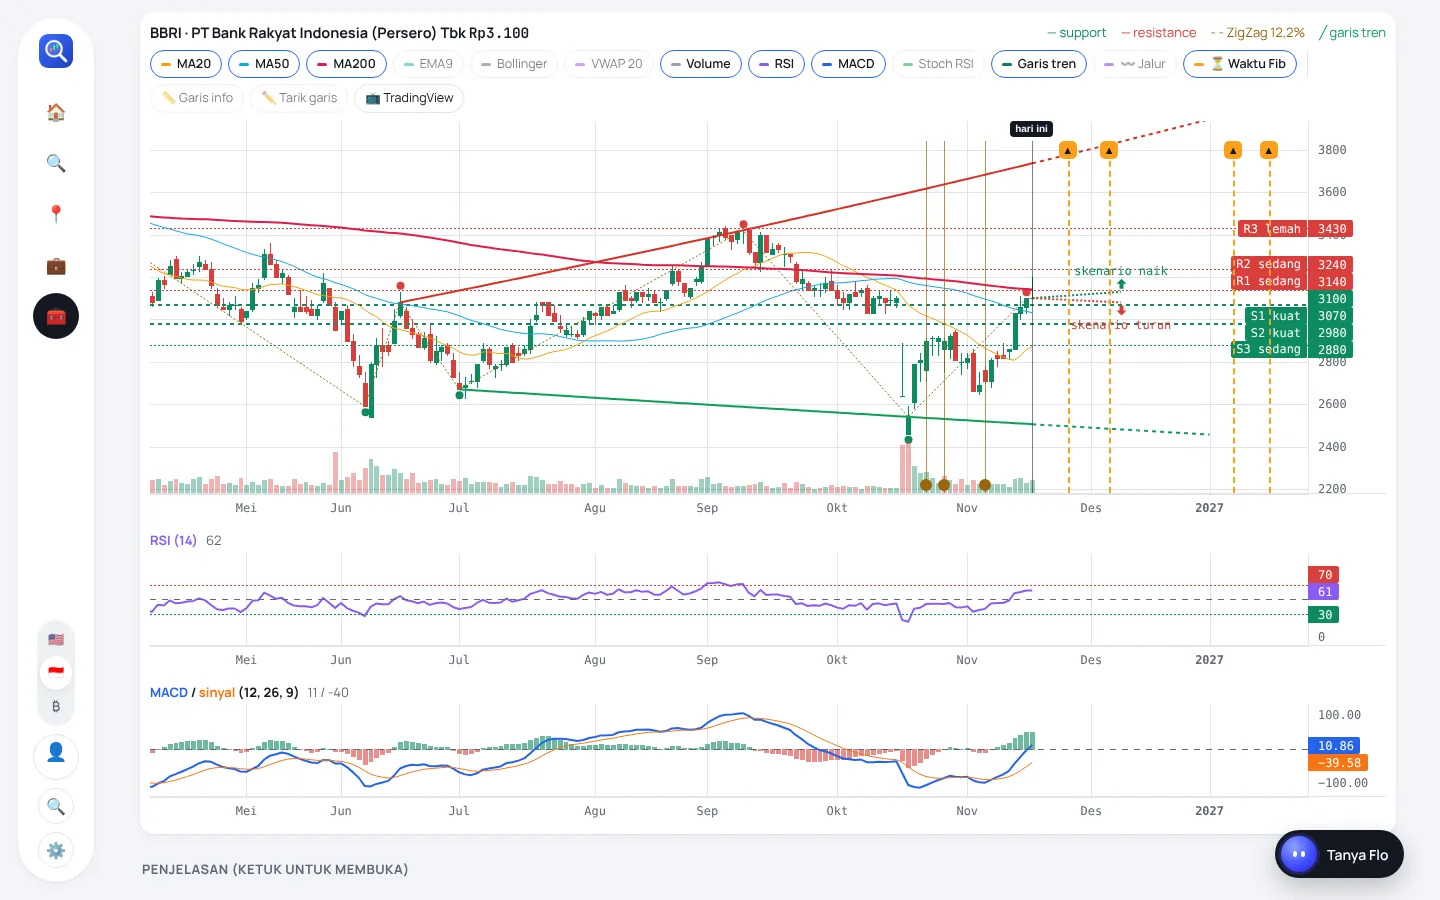
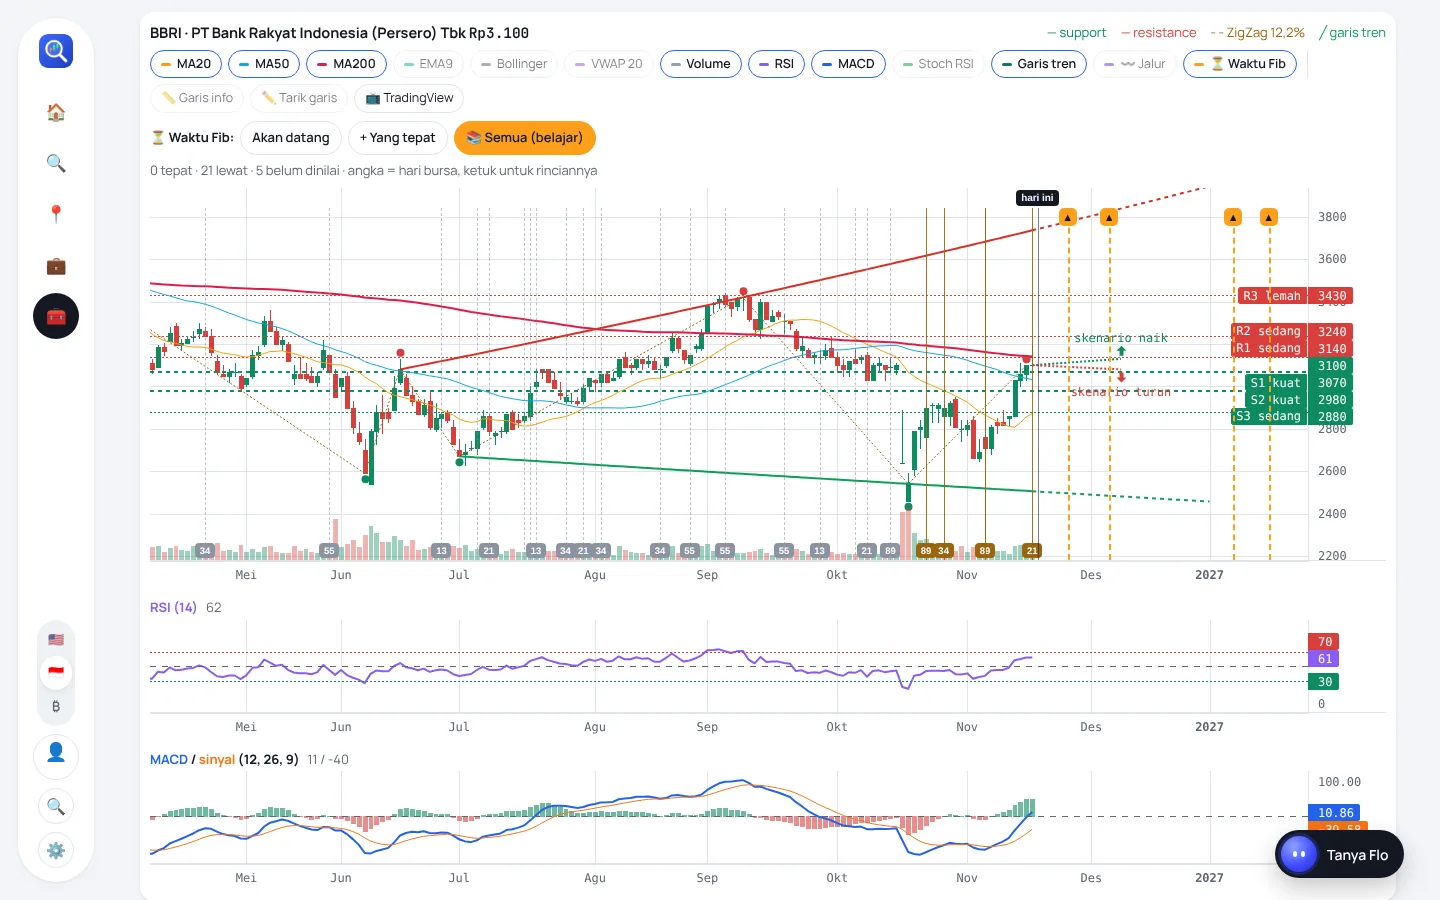
Mode belajar garis Fibonacci: semua tanggal yang sudah lewat di grafik
Tombol Waktu Fib punya pilihan Akan datang, + Yang tepat, dan Semua (belajar). Mode belajar menampilkan semua tanggal lalu (tepat, lewat, belum dinilai) dengan angka hari bursa; ketuk angka untuk melihat puncak/lembah asal dan hasilnya. IHSG dan indeks lain kini juga punya penilaian tanggal lalu (dihitung di browser dengan aturan yang sama seperti cycles.py).

Claude-Session: https://claude.ai/code/session_0176tunuPXuM9NMJ1o5MofW8

diff --git a/index.html b/index.html
@@ -309,6 +309,12 @@ tbody tr:last-child td{border-bottom:none}
 .fmini{display:inline-block;margin:4px 6px 0 0;vertical-align:top}.fmini>summary{list-style:none;cursor:pointer;display:inline-flex}.fmini>summary::-webkit-details-marker{display:none}
 .fmini>summary::after{content:attr(data-l) " ▾"}.fmini[open]{display:block;width:100%}.fmini[open]>summary::after{content:attr(data-l) " ▴"}
 .fmini>.fold-c{margin-top:8px}
+.fibm{display:flex;flex-wrap:wrap;gap:6px;align-items:center;margin:2px 0 8px;font-size:13px}.fibm button{border:1px solid var(--line);background:var(--surface);border-radius:999px;padding:6px 11px;font:inherit;font-weight:600;cursor:pointer;color:var(--fg)}
+.fibm button[aria-pressed=true]{background:#ff9f1c;border-color:#ff9f1c;color:#131722}.fibm .note{width:100%;margin:0}
+.fib-n{position:absolute;pointer-events:auto;min-width:20px;height:15px;padding:0 3px;border:none;border-radius:4px;color:#fff;font:700 9.5px/15px sans-serif;text-align:center;cursor:pointer}
+.fib-tag{position:absolute;top:2px;color:#fff;font:700 10px/16px sans-serif;padding:0 5px;border-radius:4px;white-space:nowrap}
+.fib-info{position:absolute;left:10px;bottom:46px;max-width:min(290px,80%);background:var(--surface);color:var(--fg);border:2px solid;border-radius:12px;padding:9px 30px 9px 12px;font-size:13px;line-height:1.45;box-shadow:var(--shadow);pointer-events:auto}
+.fib-x{position:absolute;right:6px;top:4px;border:none;background:none;font-size:14px;cursor:pointer;color:var(--muted)}
 .mcard:has(>.fmini){flex-direction:row;flex-wrap:wrap;align-items:flex-start}.mcard:has(>.fmini)>*{width:100%}.mcard:has(>.fmini)>.fmini:not([open]){width:auto;margin:0}
 .srbox:not(.sr-open) .sv>:not(.svh),.srbox:not(.sr-open) .sr-in>:not(.sv):not(.svh){display:none}.srbox:not(.sr-open) .sv+.sv{margin-top:6px}
 .sr-more{border:none;background:none;padding:0;cursor:pointer;margin-top:6px;align-self:flex-start}.srbox.sr-open .sr-more::after{content:"Ringkas ▴"}.sr-more::after{content:"Selengkapnya ▾"}
@@ -1555,7 +1561,8 @@ function drawChart(el, dates, vals, a, rawan, future, idr, opt){
   ch.timeScale().setVisibleLogicalRange({from:Math.max(0,B.length-150),to:B.length+Math.min(fut.length,Math.max(45,(x.path&&x.path.vis)||0))});
   watchSize(ch,el,pxObs);
   infoLines(ch,s,T.concat(fut),el,opt.dkey,idr);
-  if(on.has("fib")&&opt.tz) fibDraw(ch,el,opt.tz,good,warn);
+  if(opt.fibBox) opt.fibBox.innerHTML="";
+  if(on.has("fib")&&opt.tz) fibDraw(ch,el,opt.tz,good,warn,opt.fibBox,isIdxU(opt));
   // panel bawah
   const P=opt.panels; const all=[ch];
   if(P){ P.innerHTML="";
@@ -1577,25 +1584,58 @@ function drawChart(el, dates, vals, a, rawan, future, idr, opt){
   if(opt.read){ if(!x.macd&&on.has("macd")) x.macd=macdA(C); const lines=indRead(on,B,C,hasV,x);
     opt.read.innerHTML=lines.length?`<div class="dl" style="font-size:14px;gap:6px">${lines.map(l=>`<div><span>${l}</span></div>`).join("")}</div><p class="note">Dibaca otomatis dari harga terakhir${candle?"":" (grafik garis: data candle saham ini belum tersedia)"}. Semua ini hanya alat bantu; keputusan beli tetap dari sinyal metode dan area support.</p>`:`<p class="note">Pilih indikator di atas grafik.</p>`; }
 }
-// garis tanggal Fibonacci: yang akan datang (oranye putus-putus), yang lalu dan tepat (hijau), yang belum bisa dinilai (kuning)
-function fibDraw(ch,el,tz,good,warn){
-  const ORG="#ff9f1c", today=(()=>{ const n=new Date(); return new Date(n-n.getTimezoneOffset()*6e4).toISOString().slice(0,10); })();
-  const fut=(tz.tz||[]).filter(x=>x[0]>=today).slice(0,6), past=(tz.tzp||[]).filter(x=>x[0]<today&&x[6]!==0);
+// garis tanggal Fibonacci. Tiga tampilan: hanya yang akan datang, + yang tepat (bawaan), atau semua tanggal lalu (mode belajar).
+// tz.tz = tanggal mendatang [tgl, f, tgl asal, H/L, harga asal]; tz.tzp = tanggal lalu [tgl, f, tgl asal, H/L, harga asal, harga, hasil 1/0/null, tgl titik balik, jenis, harga, tebakan arah]
+const FIB_N=[13,21,34,55,89,144];
+function pastTz(a,dates,vals){ // hitung tanggal Fibonacci yang sudah lewat (untuk indeks; saham sudah dihitung di server), aturan sama dengan cycles.py
+  const D=[], V=[]; (dates||[]).forEach((d,i)=>{ if(vals&&vals[i]!=null){ D.push(d); V.push(vals[i]); } }); const n=D.length; if(n<30) return [];
+  const at=d=>{ let lo=0,hi=n-1; while(lo<hi){ const m=(lo+hi)>>1; if(D[m]<d) lo=m+1; else hi=m; } return D[lo]===d?lo:-1; };
+  const piv=(a.piv||[]).map(p=>[at(p[0]),p[1],p[2]]).filter(p=>p[0]>=0), turns=piv.slice();
+  if(a.tent){ const ti=at(a.tent[0]); if(ti>=0&&n-1-ti>=5) turns.push([ti,a.tent[1],a.tent[2]]); }
+  const lastI=turns.length?Math.max(...turns.map(x=>x[0])):0, dir=k=>k>=10?(V[k]>V[k-10]?"H":"L"):null, out=[];
+  piv.forEach(([i,v,ty])=>{ if(i<n-260) return; FIB_N.forEach(f=>{ const k=i+f; if(k>n-1) return;
+    const h=turns.find(x=>x[0]!==i&&Math.abs(x[0]-k)<=2), res=h?1:(k>lastI-2||k>n-3?null:0);
+    out.push([D[k],f,D[i],ty,v,V[k],res,h?D[h[0]]:null,h?h[2]:null,h?h[1]:null,dir(k-3)]); }); });
+  return out.sort((x,y)=>x[0]<y[0]?1:-1).slice(0,40); }
+function isIdxU(opt){ return opt.isIdx?null:usd; }
+function fibDraw(ch,el,tz,good,warn,box,U){
+  const ORG="#ff9f1c", GRY="#8a93a3", today=(()=>{ const n=new Date(); return new Date(n-n.getTimezoneOffset()*6e4).toISOString().slice(0,10); })();
+  let mode=store.get(WP+"fibm")||"hit"; if(!["next","hit","all"].includes(mode)) mode="hit";
+  const fut=(tz.tz||[]).filter(x=>x[0]>=today).slice(0,6), allPast=(tz.tzp||[]).filter(x=>x[0]<today);
+  const past=mode==="all"?allPast:mode==="hit"?allPast.filter(x=>x[6]!==0):[];
+  const nT=allPast.filter(x=>x[6]===1).length, nX=allPast.filter(x=>x[6]===0).length, nW=allPast.filter(x=>x[6]==null).length;
+  const fmt=U||(v=>nf(v,v>1000?0:2));
+  if(box){ box.innerHTML=`<div class="fibm" role="group" aria-label="Tampilan tanggal Fibonacci"><b>⏳ Waktu Fib:</b>${[["next","Akan datang"],["hit","+ Yang tepat"],["all","📚 Semua (belajar)"]].map(([k,t])=>`<button type="button" data-fm="${k}" aria-pressed="${mode===k}">${t}</button>`).join("")}
+      <span class="note">${allPast.length?`${nT} tepat · ${nX} lewat · ${nW} belum dinilai${mode==="all"?" · angka = hari bursa, ketuk untuk rinciannya":""}`:"belum ada tanggal yang lewat"}</span></div>`;
+    box.querySelectorAll("[data-fm]").forEach(b=>b.addEventListener("click",()=>{ store.set(WP+"fibm",b.dataset.fm); el.dispatchEvent(new CustomEvent("fibredraw")); })); }
   if(!fut.length&&!past.length) return;
   if(getComputedStyle(el).position==="static") el.style.position="relative";
-  const lay=document.createElement("div"); lay.className="fib-lay"; lay.setAttribute("aria-hidden","true");
+  const lay=document.createElement("div"); lay.className="fib-lay";
   lay.style.cssText="position:absolute;inset:0;pointer-events:none;z-index:3;overflow:hidden"; el.appendChild(lay);
-  const tsc=ch.timeScale();
+  const tsc=ch.timeScale(); let sel=null;
+  const info=x=>{ const [d,f,pd,ty,pv,px,res,hd,hty,hv,gd]=x, jn=t=>t==="H"?"puncak":"lembah";
+    return `<div class="fib-info" style="border-color:${res===1?good:res===0?GRY:warn}"><button type="button" class="fib-x" aria-label="Tutup">✕</button>
+      <b>${res===1?"✅":res===0?"❌":"⏳"} ${tgl(d,1)} · ${res===1?"tepat":res===0?"lewat":"belum bisa dinilai"}</b><br>
+      ${f} hari bursa dari ${jn(ty)} ${tgl(pd,1)} (${fmt(pv)})${px!=null?`<br>Harga di tanggal itu: ${fmt(px)}`:""}
+      ${res===1?`<br>Titik balik: ${jn(hty)} ${fmt(hv)} pada ${tgl(hd,1)}${gd?` · tebakan ${jn(gd)} ${gd===hty?"✓ benar":"✗ salah"}`:""}`:res===0?"<br>Tidak ada puncak/lembah dalam ±2 hari bursa.":"<br>Titik balik baru terlihat beberapa hari kemudian."}</div>`; };
   const place=()=>{ let W=el.clientWidth, H=el.clientHeight; try{ W-=ch.priceScale("right").width(); H-=tsc.height(); }catch(e){ W-=78; H-=28; }
-    const xs=[], ln=(x,css,top=20)=>`<i style="position:absolute;left:${x}px;top:${top}px;height:${H-top}px;${css}"></i>`; let h="";
-    past.forEach(p=>{ const x=tsc.timeToCoordinate(p[0]); if(x==null||x<2||x>W) return; if(xs.some(v=>Math.abs(v-x)<3)) return; xs.push(x);
-      const ok=p[6]===1, c=ok?good:warn; h+=ln(x,`border-left:${ok?2:1}px solid ${c};opacity:${ok?.9:.7}`)+`<b style="position:absolute;left:${x-6}px;top:${H-14}px;width:12px;height:12px;border-radius:50%;background:${c};color:#fff;font:800 9px/12px sans-serif;text-align:center">${ok?"✓":""}</b>`; });
+    const xs=[], ln=(x,css,top=20)=>`<i style="position:absolute;left:${x}px;top:${top}px;height:${H-top}px;${css}"></i>`; let h="", tail="";
+    past.forEach((p,ix)=>{ const x=tsc.timeToCoordinate(p[0]); if(x==null||x<2||x>W) return; const ok=p[6]===1, no=p[6]===0, c=ok?good:no?GRY:warn, hl=sel===ix;
+      h+=ln(x,`border-left:${ok||hl?2:1}px ${no?"dashed":"solid"} ${c};opacity:${hl?1:no?.55:.9}`);
+      if(mode==="all"){ if(xs.some(v=>Math.abs(v-x)<14)&&!hl) return; xs.push(x);
+        h+=`<button type="button" class="fib-n" data-fi="${ix}" style="left:${x-10}px;top:${H-17}px;background:${c}${hl?";outline:2px solid var(--fg)":""}" aria-label="${tgl(p[0],1)}, ${p[1]} hari bursa">${p[1]}</button>`; }
+      else if(ok) h+=`<b style="position:absolute;left:${x-6}px;top:${H-14}px;width:12px;height:12px;border-radius:50%;background:${c};color:#fff;font:800 9px/12px sans-serif;text-align:center">✓</b>`; });
+    if(sel!=null&&past[sel]){ const p=past[sel], x=tsc.timeToCoordinate(p[0]), x0=tsc.timeToCoordinate(p[2]);
+      if(x0!=null&&x0>0&&x0<W){ h+=ln(x0,"border-left:2px solid var(--accent)")+`<b class="fib-tag" style="left:${Math.max(0,x0-30)}px;background:var(--accent)">${p[3]==="H"?"puncak":"lembah"} awal</b>`;
+        if(x!=null){ const a=Math.min(x0,x), w=Math.abs(x-x0); h+=`<i style="position:absolute;left:${a}px;top:44px;width:${w}px;border-top:2px solid var(--accent)"></i><b class="fib-tag" style="left:${a+w/2-30}px;top:34px;background:var(--surface);color:var(--accent);border:1px solid var(--accent)">${p[1]} hari bursa</b>`; } }
+      tail=info(p); }
     const tx=tsc.timeToCoordinate(today);
-    if(tx!=null&&tx>0&&tx<W) h+=ln(tx,"border-left:1.5px solid var(--fg);opacity:.55",20)+`<b style="position:absolute;left:${Math.max(0,tx-22)}px;top:0;background:var(--fg);color:var(--bg);font:700 10px/16px sans-serif;padding:0 5px;border-radius:4px">hari ini</b>`;
+    if(tx!=null&&tx>0&&tx<W) h+=ln(tx,"border-left:1.5px solid var(--fg);opacity:.55",20)+`<b class="fib-tag" style="left:${Math.max(0,tx-22)}px;background:var(--fg);color:var(--bg)">hari ini</b>`;
     const fx=[]; fut.forEach(f=>{ const x=tsc.timeToCoordinate(f[0]); if(x==null||x<2||x>W) return; h+=ln(x,`border-left:2px dashed ${ORG}`);
       if(fx.some(v=>Math.abs(v-x)<18)) return; fx.push(x); const up=tz.tzdir==="H";
       h+=`<b title="${tgl(f[0],1)} · ${f[1]} hari bursa" style="position:absolute;left:${x-9}px;top:20px;width:18px;height:18px;border-radius:5px;background:${ORG};color:#131722;font:800 11px/18px sans-serif;text-align:center">${tz.tzdir?(up?"▲":"▼"):"⏳"}</b>`; });
-    lay.innerHTML=h; };
+    lay.innerHTML=h+tail; };
+  lay.addEventListener("click",ev=>{ if(ev.target.closest(".fib-x")){ sel=null; place(); return; } const b=ev.target.closest("[data-fi]"); if(!b) return; ev.stopPropagation(); const k=+b.dataset.fi; sel=sel===k?null:k; place(); });
   place(); tsc.subscribeVisibleLogicalRangeChange(()=>requestAnimationFrame(place));
   const ro=new ResizeObserver(()=>requestAnimationFrame(place)); ro.observe(el); pxObs.push(ro);
 }
@@ -1636,7 +1676,7 @@ function renderCycles(box){
       <b>${esc(isIdx?sel:sel+(o?" · "+(o.company||""):""))} <span class="num">${isIdx?nf(a.price,isIdx&&a.price>1000?0:2):usd(a.price)}</span></b>
       <span class="legend"><span style="color:var(--good)">— support</span><span style="color:var(--bad)">— resistance</span><span style="color:var(--warn)">- - ZigZag ${nf(a.thr,1)}%</span><span style="color:#0f9d58">╱ garis tren</span>${isIdx?`<span style="color:var(--warn)">▼ tanggal rawan</span>`:""}</span></div>
       <div class="indbar" id="indBar">${(()=>{ const on=indOn(); return IND.map(([k,n,c])=>`<button type="button" data-ind="${k}" aria-pressed="${on.has(k)}"><i style="background:${c}"></i>${n}</button>`).join(""); })()}<span class="il-sep"></span><button type="button" id="ilBtn" aria-pressed="false" title="Ukur perubahan harga antara dua titik">📏 Garis info</button><button type="button" id="tlBtn" aria-pressed="false" title="Tarik garis tren sendiri; diperpanjang ke depan">✏ Tarik garis</button><button type="button" id="ilClr" hidden title="Hapus semua garis yang Anda buat">🗑</button><button type="button" id="tvBtn" title="Grafik TradingView: harga lebih baru (tertunda ±15 menit), alat gambar dan indikator lengkap">📺 TradingView</button></div>
-      <div id="tvBox"></div><p class="note" id="ilHint" style="margin:0 0 6px;min-height:0"></p>
+      <div id="tvBox"></div><div id="fibMode"></div><p class="note" id="ilHint" style="margin:0 0 6px;min-height:0"></p>
       <div id="cyChart" style="width:100%;min-height:400px"></div>
       <div id="cyPanels"></div></div>
     <p class="note" style="margin:14px 2px 0;font-weight:700;letter-spacing:.04em">PENJELASAN (KETUK UNTUK MEMBUKA)</p>
@@ -1679,8 +1719,8 @@ function renderCycles(box){
   faTxt(); fa.addEventListener("click",()=>{ const all=fds().every(d=>d.open); fds().forEach(d=>d.open=!all); const sb=box.querySelector(".srbox"); if(sb){ sb.classList.toggle("sr-open",!all); store.set(WP+"fold.saran",all?"0":"1"); } setTimeout(faTxt,40); });
   box.addEventListener("toggle",ev=>{ if(ev.target.matches&&ev.target.matches("details[data-fold]")){ faTxt(); if(ev.target.open&&b&&ev.target.querySelector("#cyBreadth")&&window.LightweightCharts) drawBreadth($("cyBreadth"),b); } },true);
   $("cyQ").addEventListener("change",ev=>{ const v=ev.target.value.trim().toUpperCase(); if(CYC.stocks[v]){ store.set(WP+"cy.sel",v); renderResults(); } });
-  let bars=null; const draw=()=>drawChart($("cyChart"),SER.dates,vals,a,isIdx?(a.rawan||[]).filter(r=>(r.why||[]).some(w=>{ const k=testKey(w), t=k&&verdOf(sel,k); return !t||t.verdict!=="acak"; })):null,CYC.future,!isIdx&&usd(1).startsWith("Rp"),{bars,panels:$("cyPanels"),read:$("cyRead"),dkey:sel,tz:isIdx?idxTz(a,sel):a});
-  IL_MODE=false;
+  let bars=null; const draw=()=>drawChart($("cyChart"),SER.dates,vals,a,isIdx?(a.rawan||[]).filter(r=>(r.why||[]).some(w=>{ const k=testKey(w), t=k&&verdOf(sel,k); return !t||t.verdict!=="acak"; })):null,CYC.future,!isIdx&&usd(1).startsWith("Rp"),{bars,panels:$("cyPanels"),read:$("cyRead"),dkey:sel,isIdx,fibBox:$("fibMode"),tz:isIdx?Object.assign(idxTz(a,sel),{tzp:pastTz(a,SER.dates,vals)}):a});
+  IL_MODE=false; $("cyChart").addEventListener("fibredraw",()=>draw());
   const tvSym=IS_ID?(isIdx?"IDX:COMPOSITE":"IDX:"+sel):({"S&P 500":"SP:SPX","Nasdaq-100":"NASDAQ:NDX"}[sel]||sel);
   const tvSet=on=>{ $("cyBox").classList.toggle("tv-on",on); $("tvBtn").textContent=on?"📈 Grafik ChartFlow":"📺 TradingView"; $("tvBtn").setAttribute("aria-pressed",on);
     if(on){ IL_MODE=false; ilBar(); tvWidget($("tvBox"),tvSym); } else $("tvBox").innerHTML=""; };

diff --git a/chartflow/public/index.html b/chartflow/public/index.html
@@ -255,7 +255,7 @@ input.code{font-size:22px;letter-spacing:.18em;text-align:center;text-transform:
   <div class="grid">
     <div class="card"><div class="e">📍</div><h3>Area beli</h3><p>Harga beli, batas rugi, dan target menurut aturan, dari zona support terdekat. Hanya yang calon untungnya minimal 2× calon rugi. Di BEI hanya untuk saham yang trennya naik (di atas rata-rata 200 hari), dan saat pasar lesu area beli hanya jadi pantauan. Hasil uji 2018–2026 ditampilkan di halamannya.</p></div>
     <div class="card"><div class="e">🕯</div><h3>Grafik & 8 indikator</h3><p>Candlestick dan volume dengan MA 20/50/200, EMA, Bollinger, VWAP, RSI, MACD, dan Stochastic RSI, masing-masing dengan bacaan otomatis. Ada garis tren otomatis dengan dua skenario arah (naik dan turun), dan jalur zigzag ke depan (ke mana dulu, lalu ke mana), beserta catatan seberapa sering tebakan itu benar, alat untuk menarik garis tren dan Garis info sendiri, serta tombol TradingView.</p></div>
-    <div class="card"><div class="e">📈</div><h3>Zona support & resistance</h3><p>Dari Fibonacci, titik balik, rata-rata bergerak, dan angka bulat. Setiap unsur diuji: mana yang terbukti, mana yang tidak. Panduan tanggal Fibonacci menjelaskan level harga yang perlu dicek di sekitar tanggal itu, disesuaikan dengan posisi di portofolio, tanggal yang sudah lewat ditandai tepat atau lewat untuk tiap saham, dan setiap tanggal diberi tebakan arah (calon puncak atau calon lembah) dari tren 10 hari beserta hasil ujinya. Kartu Fibonacci time zone tampil di atas grafik, untuk saham maupun IHSG dan indeks lain, dan tanggalnya bisa digambar langsung di grafik lewat tombol ⏳ Waktu Fib (garis oranye = tanggal yang akan datang, hijau = tanggal lalu yang tepat). Penjelasan panjang tersimpan di balik tombol Tampilkan, atau tekan Buka semua penjelasan.</p></div>
+    <div class="card"><div class="e">📈</div><h3>Zona support & resistance</h3><p>Dari Fibonacci, titik balik, rata-rata bergerak, dan angka bulat. Setiap unsur diuji: mana yang terbukti, mana yang tidak. Panduan tanggal Fibonacci menjelaskan level harga yang perlu dicek di sekitar tanggal itu, disesuaikan dengan posisi di portofolio, tanggal yang sudah lewat ditandai tepat atau lewat untuk tiap saham, dan setiap tanggal diberi tebakan arah (calon puncak atau calon lembah) dari tren 10 hari beserta hasil ujinya. Kartu Fibonacci time zone tampil di atas grafik, untuk saham maupun IHSG dan indeks lain, dan tanggalnya bisa digambar langsung di grafik lewat tombol ⏳ Waktu Fib (garis oranye = tanggal yang akan datang, hijau = tanggal lalu yang tepat). Pilihan Semua (belajar) menampilkan semua tanggal yang sudah lewat, termasuk yang meleset; ketuk angkanya untuk melihat asal puncak/lembah dan hasilnya. Penjelasan panjang tersimpan di balik tombol Tampilkan, atau tekan Buka semua penjelasan.</p></div>
     <div class="card"><div class="e">🧮</div><h3>Kalkulator lot</h3><p>Berapa lot, rugi bila kena batas rugi, untung di target, dan harga impas setelah biaya.</p></div>
   </div>
   <h3 class="grp">🛡 Menjaga posisi</h3>
